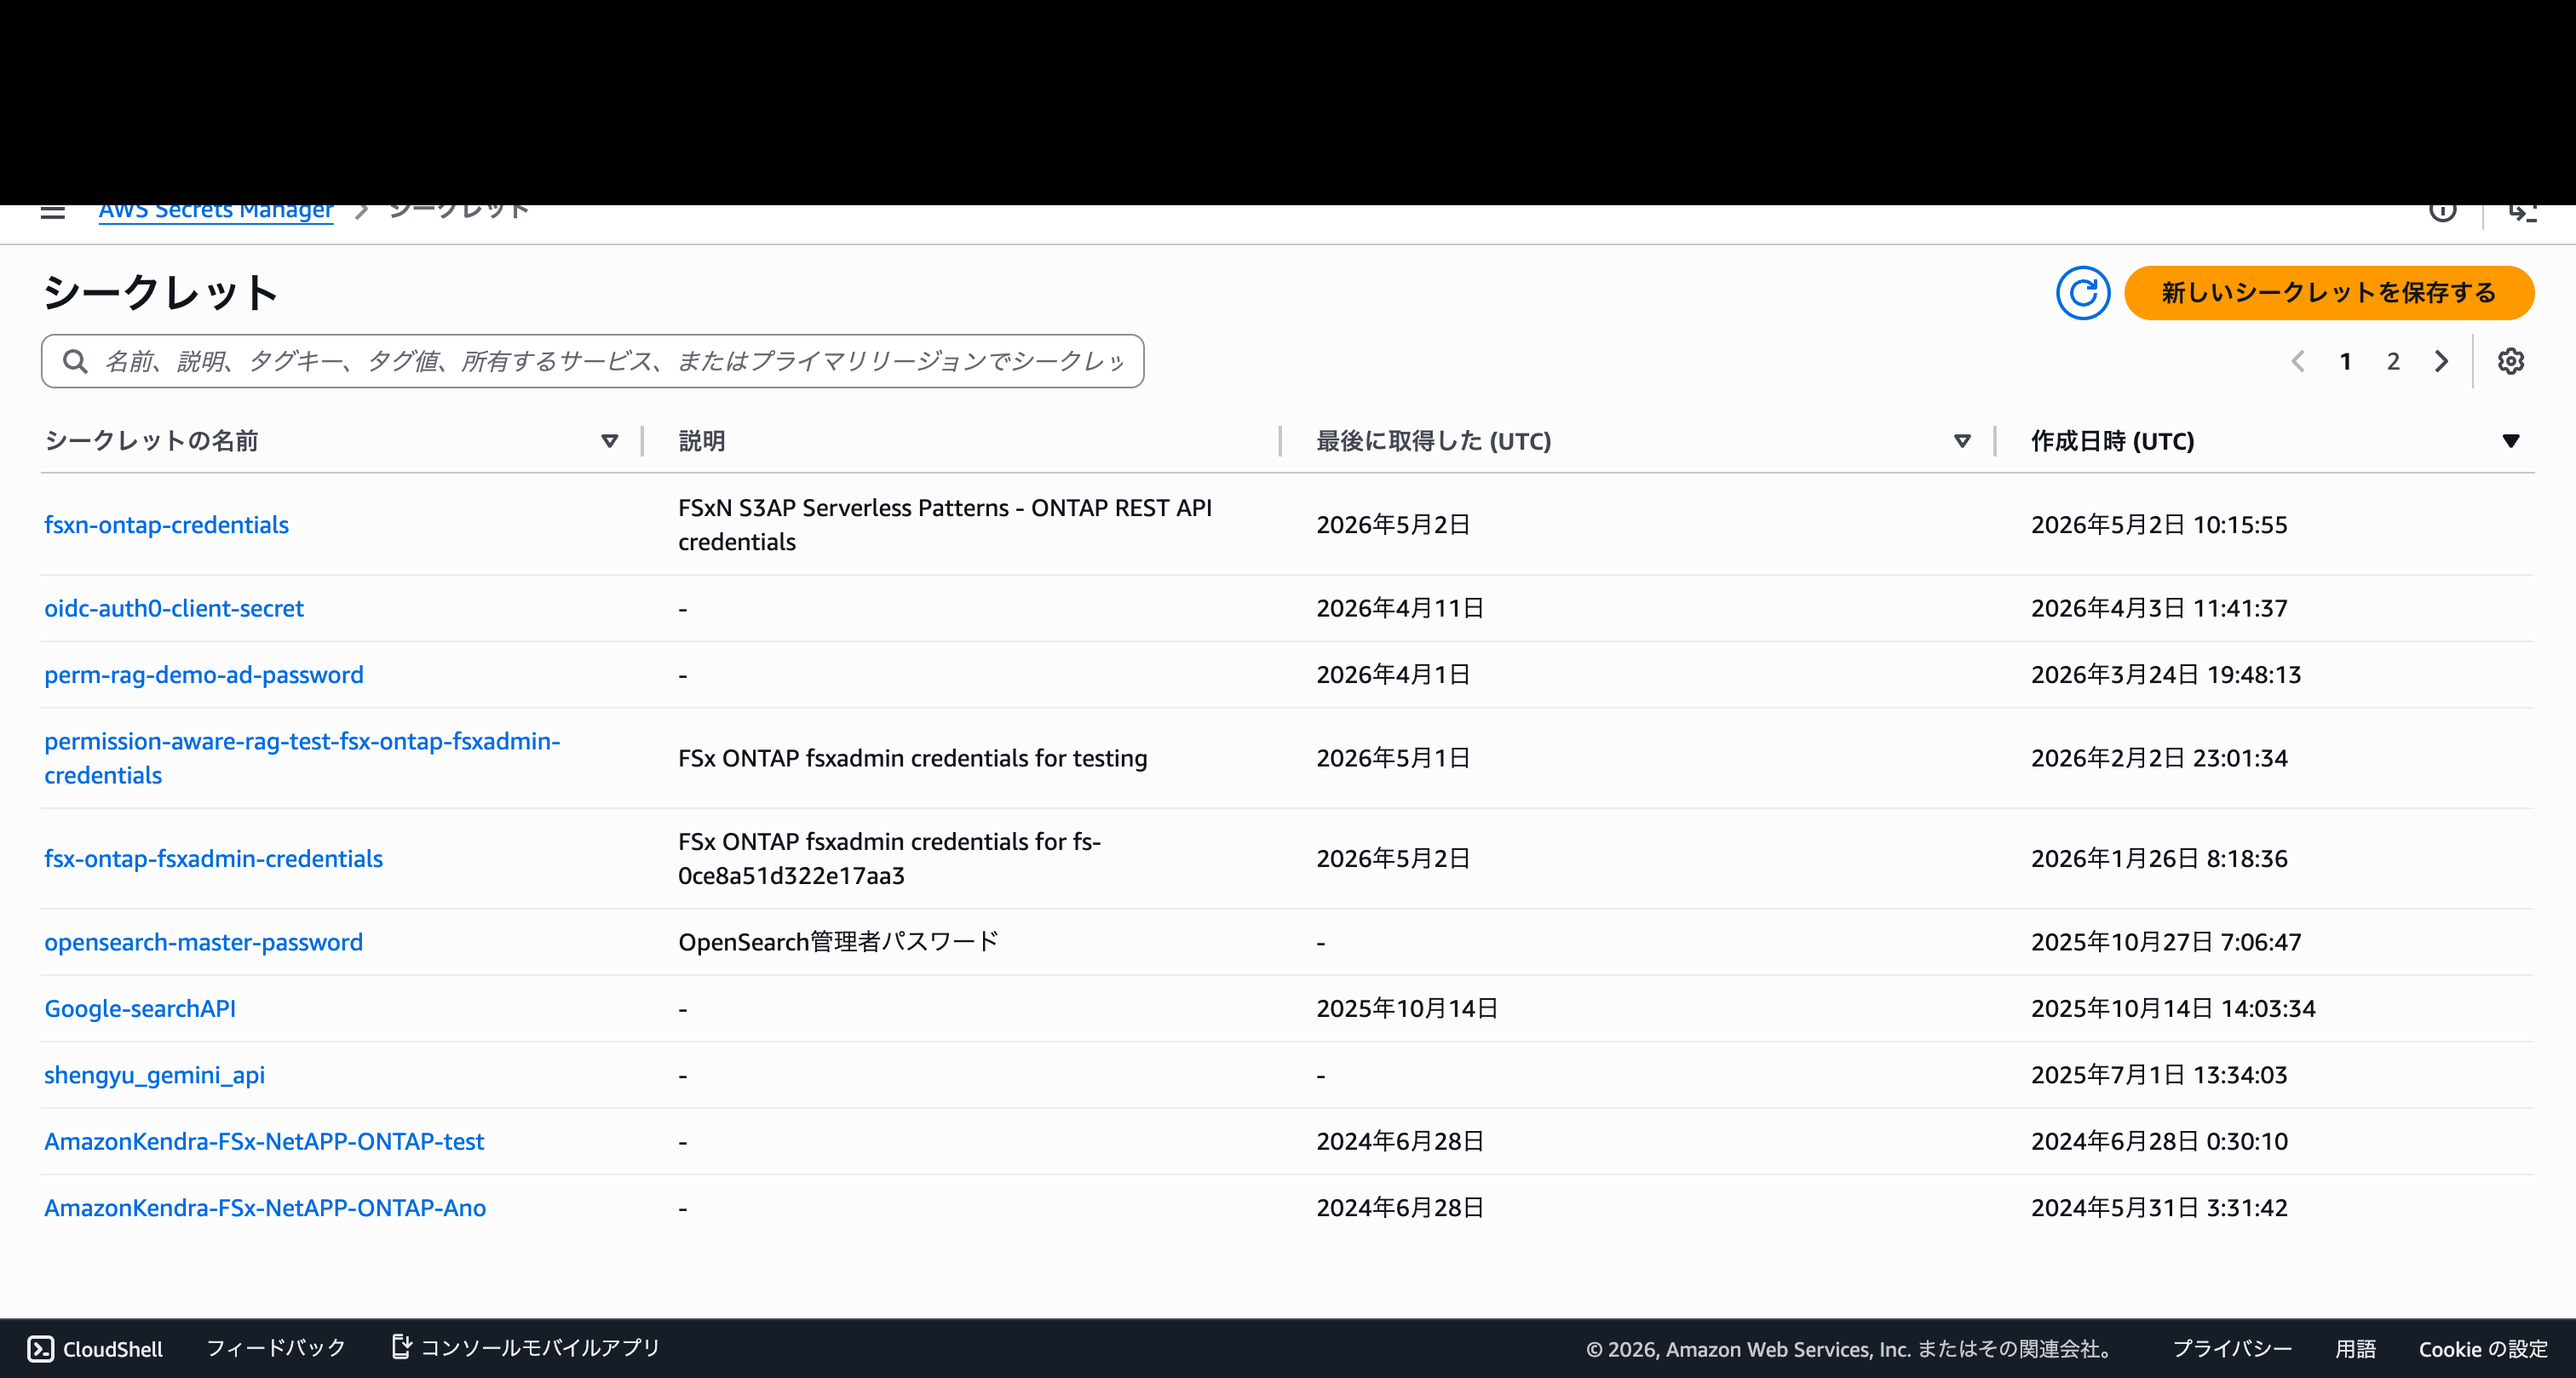
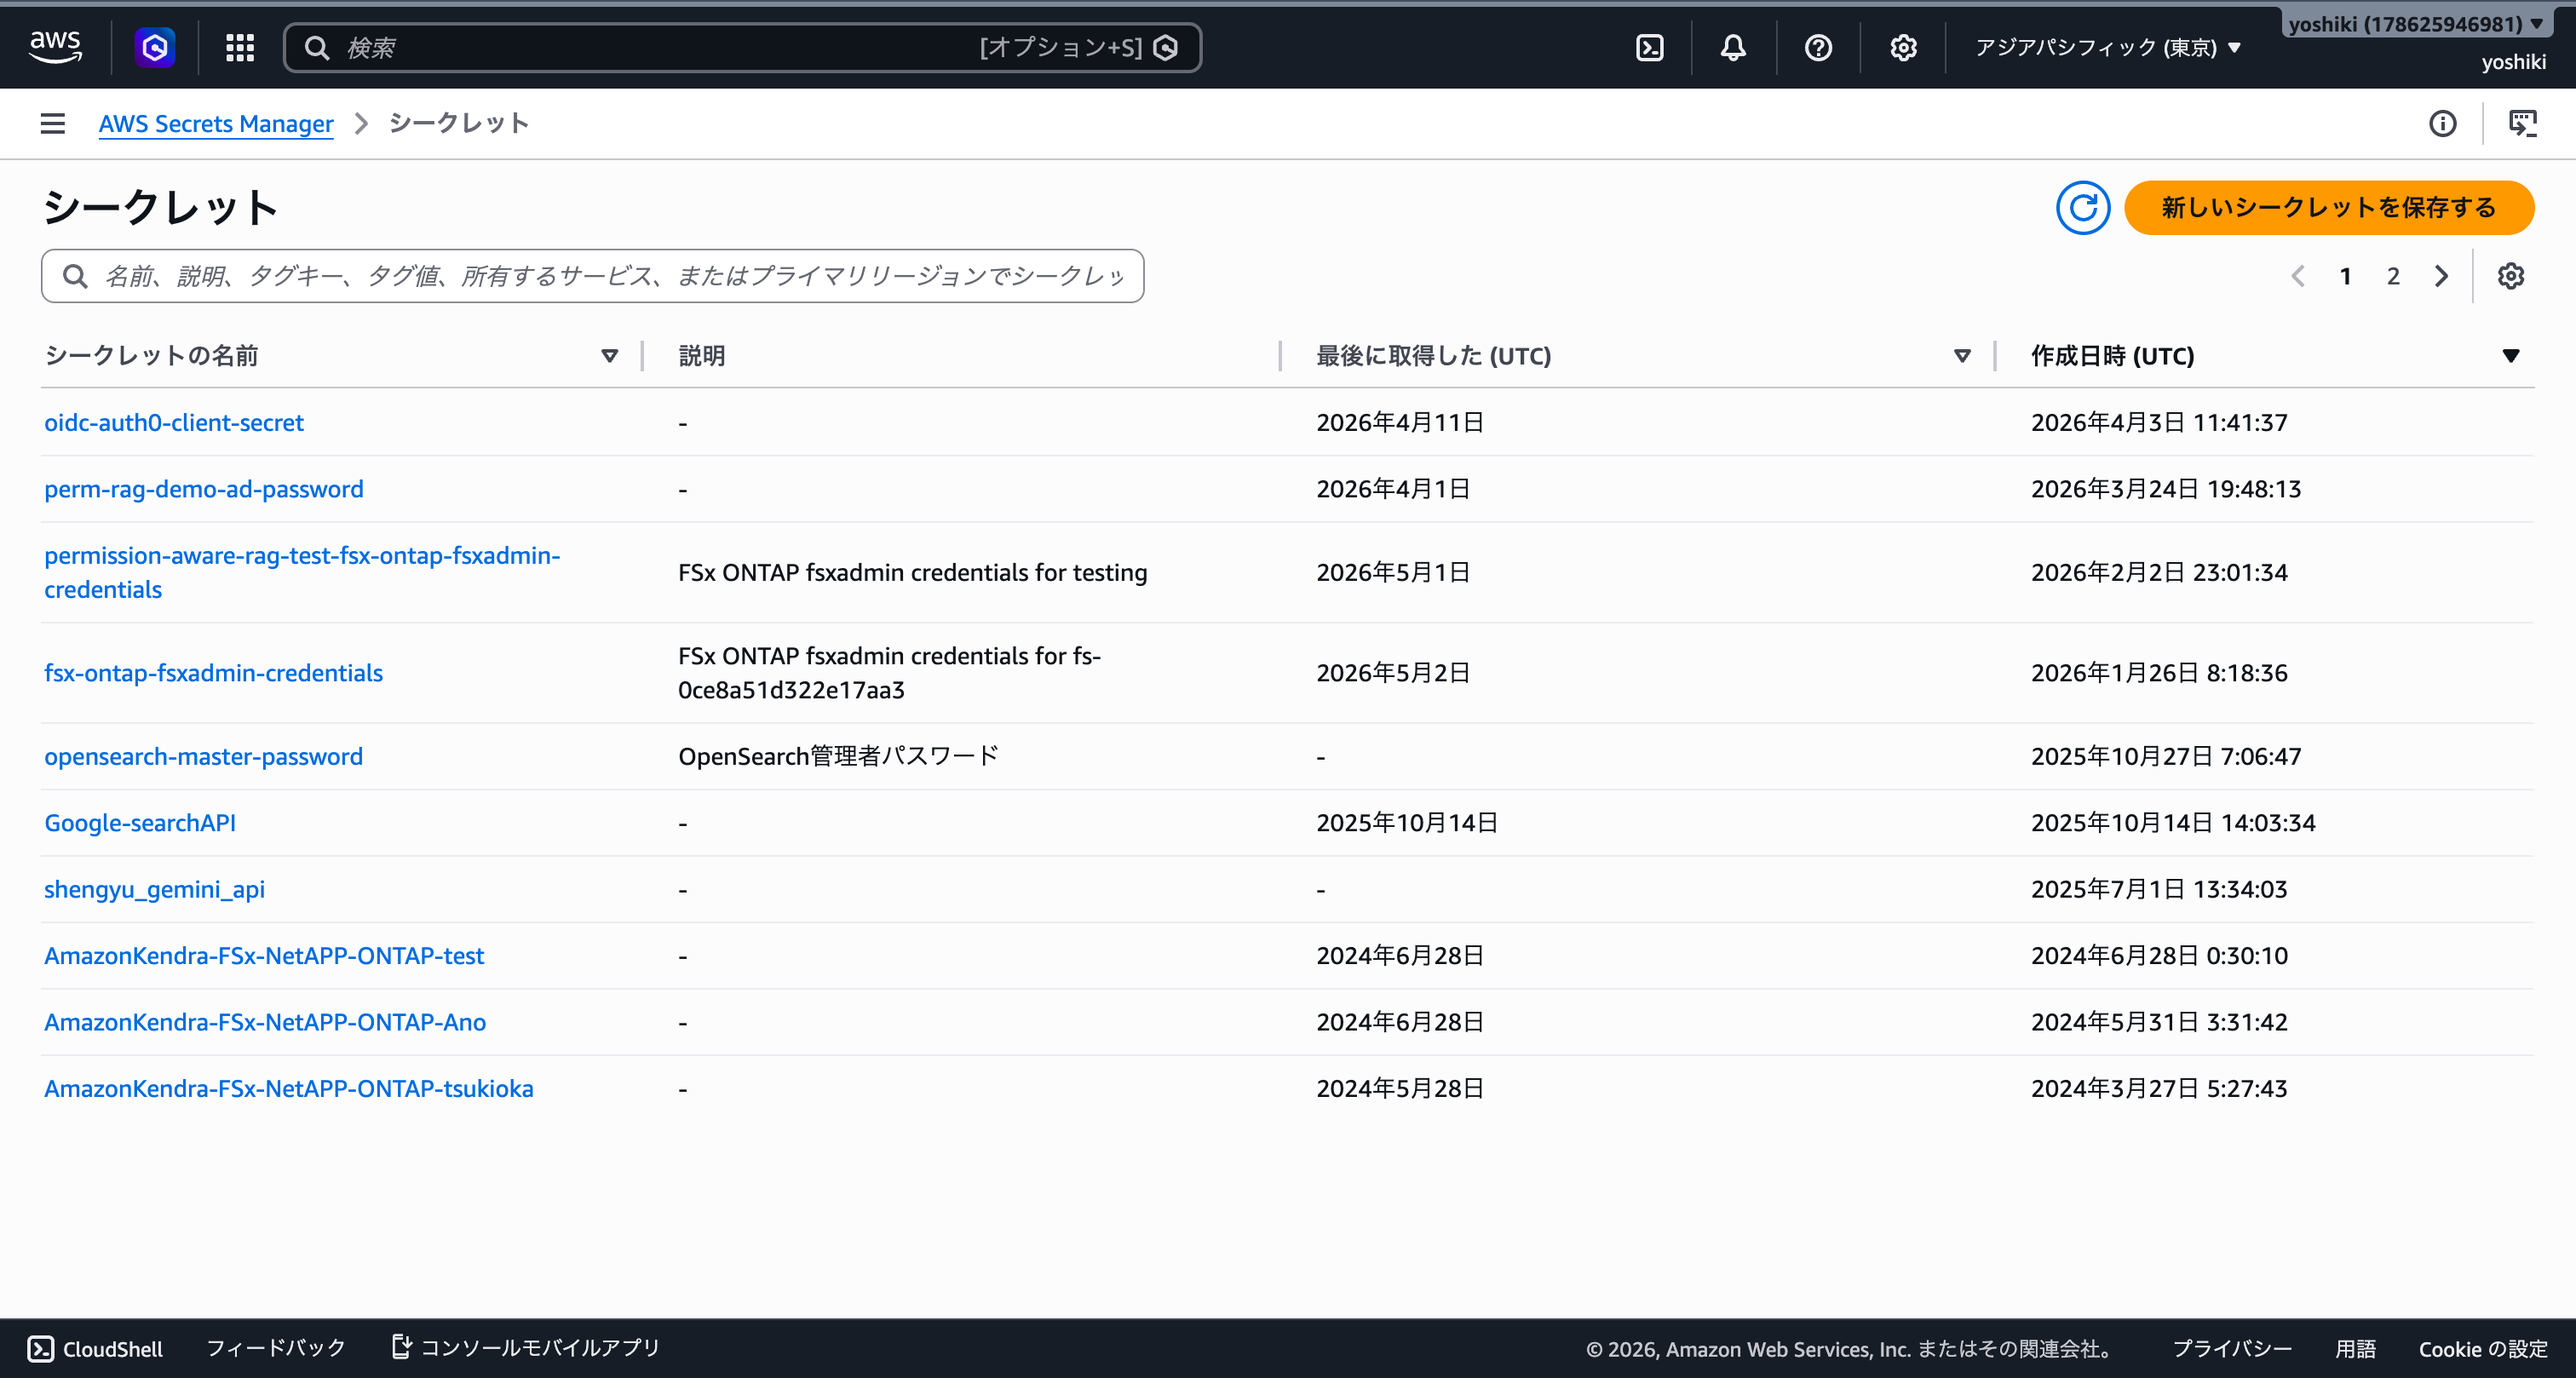
Add prerequisites setup commands and fix repo URL
- Add Secrets Manager pre-registration command
- Add Deploy bucket creation command
- Add S3 Gateway Endpoint pre-check command
- Fix git clone URL to actual repository
- Add secrets-manager.png to masked/

diff --git a/README.md b/README.md
@@ -142,10 +142,33 @@ EventBridge Scheduler (定期実行)
 - **AWS アカウント**: 有効な AWS アカウントと適切な IAM 権限
 - **FSx for NetApp ONTAP**: デプロイ済みのファイルシステム
   - ONTAP バージョン: 9.17.1P4D3 以上
-  - S3 Access Point が有効化されたボリューム
+  - S3 Access Point が有効化されたボリューム（network origin: `internet` 推奨）
 - **ネットワーク**: VPC、プライベートサブネット、ルートテーブル
+- **Secrets Manager**: ONTAP REST API 認証情報（`{"username":"fsxadmin","password":"..."}` 形式）を事前登録
+- **S3 バケット**: Lambda デプロイパッケージ格納用バケットを事前作成（例: `fsxn-s3ap-deploy-<account-id>`）
 - **Python 3.12+**: ローカル開発・テスト用
 - **AWS CLI v2**: デプロイ・管理用
+
+### 事前準備コマンド
+
+```bash
+# 1. デプロイ用 S3 バケット作成
+ACCOUNT_ID=$(aws sts get-caller-identity --query Account --output text)
+aws s3 mb "s3://fsxn-s3ap-deploy-${ACCOUNT_ID}" --region $AWS_DEFAULT_REGION
+
+# 2. ONTAP 認証情報を Secrets Manager に登録
+aws secretsmanager create-secret \
+  --name fsxn-ontap-credentials \
+  --secret-string '{"username":"fsxadmin","password":"<your-ontap-password>"}' \
+  --region $AWS_DEFAULT_REGION
+
+# 3. 既存の S3 Gateway Endpoint を確認（重複作成を防ぐ）
+aws ec2 describe-vpc-endpoints \
+  --filters "Name=vpc-id,Values=<your-vpc-id>" "Name=service-name,Values=com.amazonaws.${AWS_DEFAULT_REGION}.s3" \
+  --query 'VpcEndpoints[*].{Id:VpcEndpointId,State:State}' \
+  --output table
+# → 結果がある場合は EnableS3GatewayEndpoint=false でデプロイ
+```
 
 ### VPC 内 Lambda から S3 AP にアクセスする場合の注意事項
 
@@ -169,8 +192,8 @@ EventBridge Scheduler (定期実行)
 ### 1. リポジトリのクローン
 
 ```bash
-git clone https://github.com/<your-org>/fsxn-s3ap-serverless-patterns.git
-cd fsxn-s3ap-serverless-patterns
+git clone https://github.com/Yoshiki0705/FSx-for-ONTAP-S3AccessPoints-Serverless-Patterns.git
+cd FSx-for-ONTAP-S3AccessPoints-Serverless-Patterns
 ```
 
 ### 2. 依存関係のインストール
